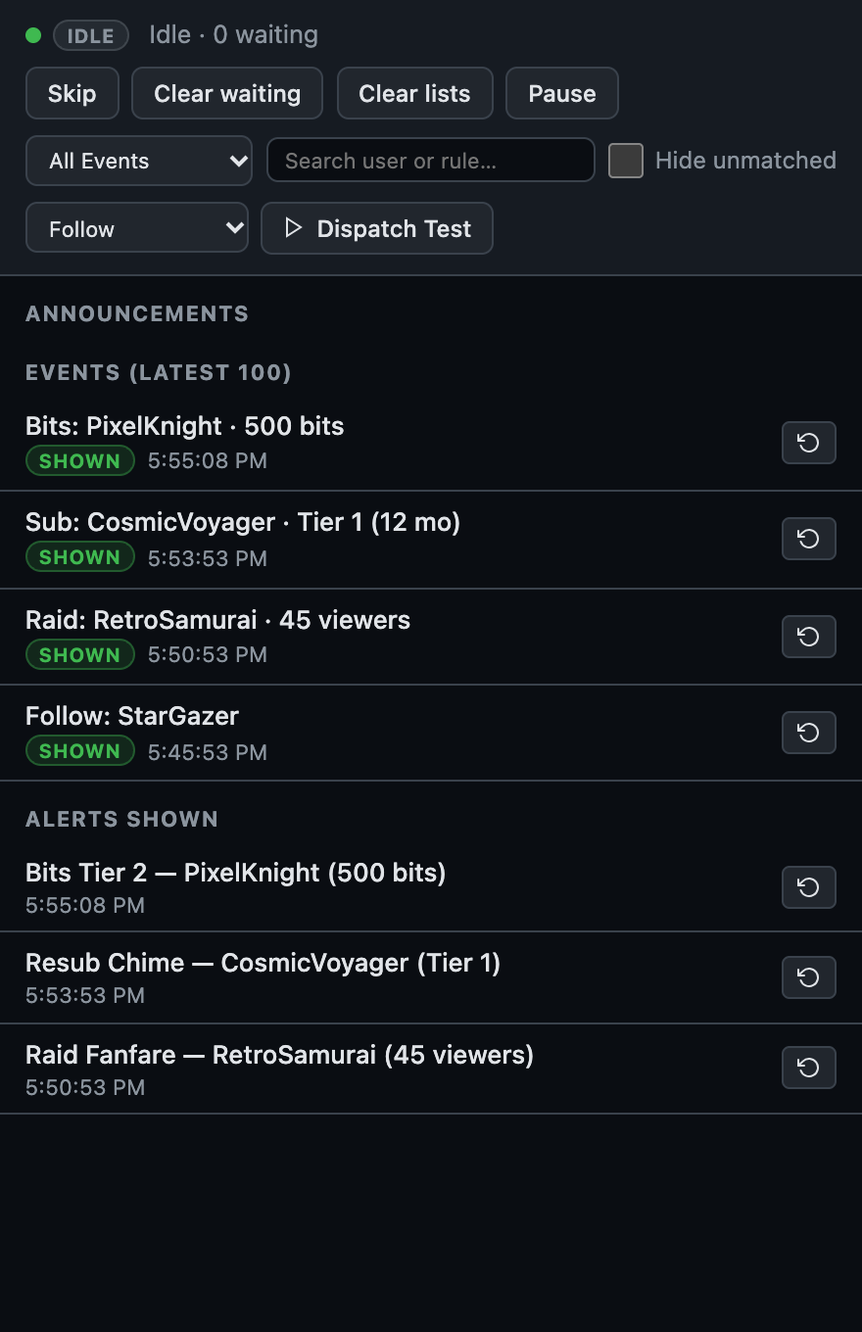
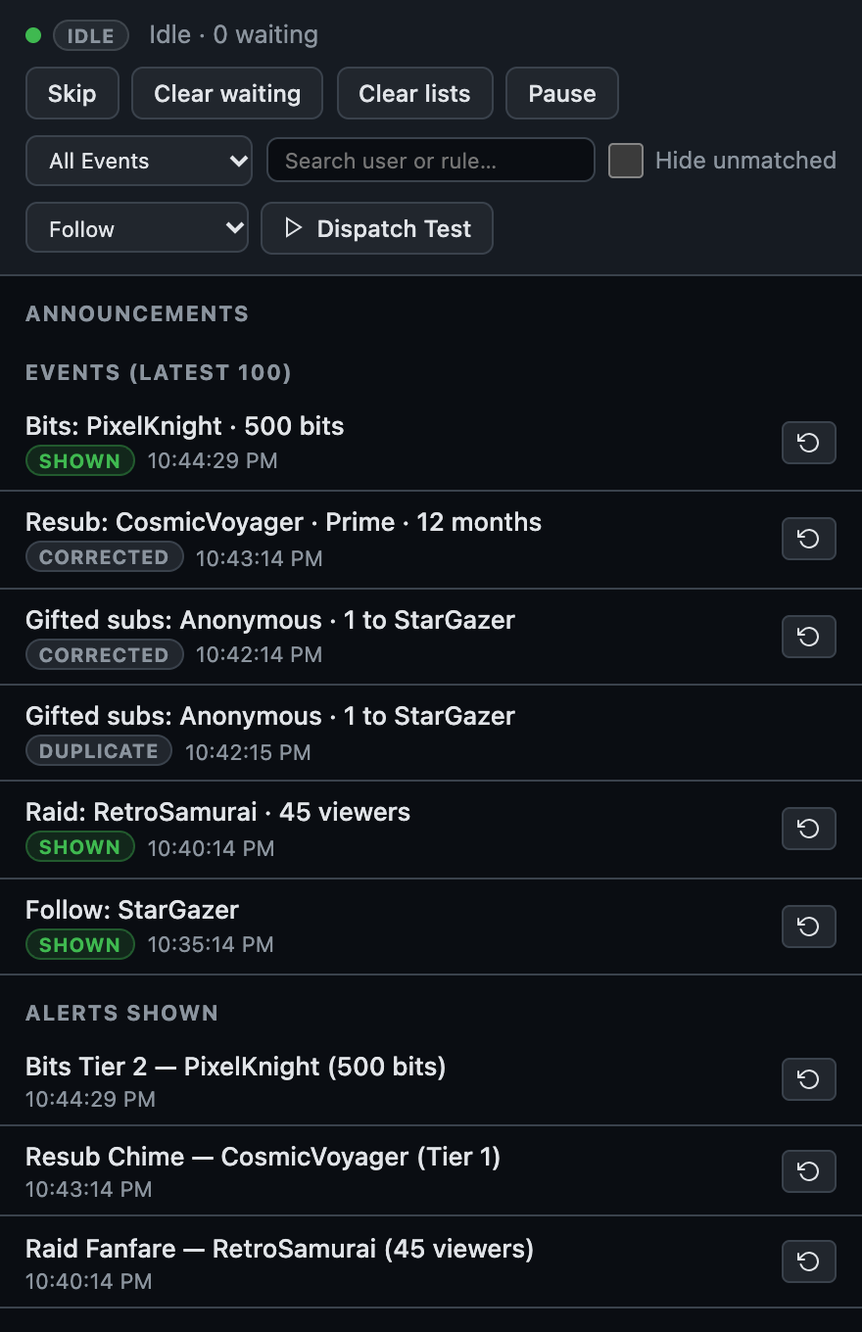
feat: add audited alert history corrections without replay
Preserve originals and back up the log before atomic repairs; show corrected Prime and gift details and block duplicate event replay.

diff --git a/public/docs.html b/public/docs.html
@@ -1401,6 +1401,11 @@
             <strong>Variants:</strong> add several and pick random (never the same twice in a row), weighted, or in order.<br><br>
             <strong>Placeholders</strong> in titles and messages: <code>{{alert.user}}</code> <code>{{alert.amount}}</code> <code>{{alert.count}}</code> <code>{{alert.months}}</code> <code>{{alert.streak}}</code> <code>{{alert.tier}}</code> <code>{{alert.message}}</code> <code>{{alert.reward}}</code> <code>{{alert.viewers}}</code> <code>{{alert.name}}</code> <code>{{alert.recipient}}</code> <code>{{alert.keyword}}</code>, plus poll tokens <code>{{winner}}</code> <code>{{poll_title}}</code> <code>{{votes}}</code> <code>{{percent}}</code> <code>{{total_votes}}</code>.<br><br>
             <strong>Queue:</strong> alerts play one at a time with a configurable gap. You can skip, clear, pause and resume from the Alerts page. The <a href="/alert-queue.html">Event queue</a> page lists the latest 100 real events (including ones that matched no rule) with a replay button, and fits as an OBS dock (View → Docks → Custom Browser Docks, <code>http://localhost:3000/alert-queue.html</code>). Simulations and Test buttons never run timer or HTTP actions. Rules have a priority (low to critical, with optional interrupt and expiry); <strong>Announcements</strong> are manual alerts fired from the Announcements tab or <code>/tools/announcements-dock.html</code> (<code>POST /api/alerts/trigger</code>). Alerts can also send a chat message or press a Companion button.<br><br>
+            <strong>Saved-event corrections:</strong> confirmed mistakes can be repaired through the administrative <code>POST /api/alerts/history/correct</code> endpoint; this is not a live Companion trigger. No alerts, sounds, actions, broadcasts, counts, goals, rules or queue/current/playback snapshots are changed.<br><br>
+            <strong>Safe procedure:</strong> (1) Read <code>GET /api/alerts</code>, locate the affected <code>queue.events</code> and existing matching rule. (2) Copy each complete original entry into <code>expected</code> and POST a preview with <code>dryRun:true</code>. (3) Inspect every proposed record, then send the same request with <code>dryRun:false</code>. Example body structure: <code>{reason:"Confirmed Prime announcement",dryRun:true,corrections:[{id:"event-id",expected:fullOriginalRecord,event:{tier:"prime",tierLabel:"Prime",months:12},title:"FictionalViewer resubscribed with Prime for 12 months!",ruleId:"prime-rule-id",duplicateOf:null}]}</code>; serialize as JSON and send <code>Content-Type: application/json</code>. Use actual IDs and the full original object from the GET response, not the example identifiers.<br><br>
+            <strong>Duplicates:</strong> correct the giver/recipient or subscription details first; set the extra entry's <code>duplicateOf</code> to the canonical ID (both may be in one batch). The corrected user/type must match; no self-reference, chains or cycles. Canonical records show <code>corrected</code>, extras show <code>duplicate</code>. Refresh Alerts or the OBS Event queue dock to see Prime/months/recipients. Duplicate Replay buttons are hidden and event replay is blocked; canonical replay is still a separate explicit live action.<br><br>
+            <strong>Audit and backup:</strong> the response is <code>{ok:true,dryRun,replayed:false,backup,events:[changed records]}</code>. Preview writes nothing and has <code>backup:null</code>. Apply first backs up the full previous log to <code>data/backups/alert-events-before-repair-&lt;UUID&gt;.json</code> under your configured data directory, then atomically replaces <code>alert-events.json</code>. The returned path is relative (<code>backups/...</code>); this JSON backup is not a ZIP in Backups UI. Originals remain in <code>revisions:[{at,reason,original}]</code>, excluding nested prior revisions. IDs/timestamps/types remain unchanged. No chat history or historical subscription/gift totals are rewritten.<br><br>
+            <strong>Validation:</strong> 1–50 unique IDs, reason nonblank/max 500 characters, at most ten revisions per event. Editable text fields (max 2000 each): <code>user,recipient,tier,tierLabel,message</code>; finite nonnegative numeric fields: <code>months,streak,count,amount</code>. Other event fields cannot change. Required literal <code>title</code> (max 2000), compatible existing <code>ruleId</code> (milestone also accepts resub), and <code>duplicateOf</code> (ID or null). <code>dryRun</code> is boolean, default false. Errors: 400 invalid request, 404 missing event, 405 non-POST, 409 stale full <code>expected</code> record, 500 backup/write failure. A failed batch does not replace the in-memory log. See the <a href="/api.html">in-app API reference</a> for the complete JSON example.<br><br>
             <strong>Not included yet:</strong> watch streaks and hype trains (they need Twitch EventSub), and OBS control actions.
         </div></div>
     </div>`;

diff --git a/server/services/alert-history.js b/server/services/alert-history.js
@@ -1,0 +1,78 @@
+'use strict';
+const fs = require('fs');
+const path = require('path');
+const { randomUUID } = require('crypto');
+const { isDeepStrictEqual } = require('util');
+
+const TEXT_FIELDS = new Set(['user', 'recipient', 'tier', 'tierLabel', 'message']);
+const NUMBER_FIELDS = new Set(['months', 'streak', 'count', 'amount']);
+const clone = value => JSON.parse(JSON.stringify(value));
+function fail(message, status = 400) {
+    throw Object.assign(new Error(message), { status });
+}
+
+function correctAlertHistory({ dataDir, events, rules, reason, corrections, dryRun = false }) {
+    if (typeof reason !== 'string' || !reason.trim() || reason.length > 500) fail('A correction reason is required (maximum 500 characters)');
+    if (!Array.isArray(corrections) || !corrections.length || corrections.length > 50) fail('Provide between 1 and 50 corrections');
+    if (typeof dryRun !== 'boolean') fail('dryRun must be a boolean');
+    const originals = new Map(events.map(entry => [entry.id, entry]));
+    const changed = new Map();
+    const at = new Date().toISOString();
+    for (const change of corrections) {
+        if (!change || typeof change !== 'object' || Array.isArray(change)) fail('Each correction must be an object');
+        const entry = originals.get(change.id);
+        if (!entry) fail('An event to correct was not found', 404);
+        if (changed.has(change.id)) fail('An event can only appear once per correction');
+        if (!isDeepStrictEqual(change.expected, clone(entry))) fail('Event changed; reload history before correcting it', 409);
+        if ((entry.revisions || []).length >= 10) fail('Event correction limit reached');
+        if (!change.event || typeof change.event !== 'object' || Array.isArray(change.event)) fail('event must contain corrected fields');
+        const event = { ...entry.event };
+        for (const [key, value] of Object.entries(change.event)) {
+            if (TEXT_FIELDS.has(key)) {
+                if (typeof value !== 'string' || value.length > 2000) fail(`Invalid corrected ${key}`);
+            } else if (NUMBER_FIELDS.has(key)) {
+                if (typeof value !== 'number' || !Number.isFinite(value) || value < 0) fail(`Invalid corrected ${key}`);
+            } else fail(`Cannot correct event field "${key}"`);
+            event[key] = value;
+        }
+        if (typeof change.title !== 'string' || change.title.length > 2000) fail('A corrected title is required (maximum 2000 characters)');
+        const rule = rules.find(item => item.id === change.ruleId);
+        if (!rule || (rule.trigger !== event.type && !(rule.trigger === 'milestone' && event.type === 'resub'))) fail('Corrected rule must exist and match the event type');
+        if (change.duplicateOf !== null && (typeof change.duplicateOf !== 'string' || !change.duplicateOf)) fail('duplicateOf must be an event ID or null');
+        const { revisions, ...original } = clone(entry);
+        changed.set(entry.id, {
+            ...entry, event, title: change.title, ruleId: rule.id, ruleName: rule.name,
+            status: change.duplicateOf ? 'duplicate' : 'corrected',
+            duplicateOf: change.duplicateOf,
+            revisions: [...(revisions || []), { at, reason: reason.trim(), original }]
+        });
+    }
+    const next = events.map(entry => changed.get(entry.id) || entry);
+    for (const entry of next) {
+        if (!entry.duplicateOf || (!changed.has(entry.id) && !changed.has(entry.duplicateOf))) continue;
+        const target = changed.get(entry.duplicateOf) || originals.get(entry.duplicateOf);
+        if (!target || target.id === entry.id || target.duplicateOf || target.status === 'duplicate'
+            || target.event.type !== entry.event.type
+            || String(target.event.user).toLowerCase() !== String(entry.event.user).toLowerCase()) {
+            fail('Duplicate must reference a different canonical event for the same viewer and type');
+        }
+    }
+    let backup = null;
+    if (!dryRun) {
+        const id = randomUUID();
+        backup = path.join('backups', `alert-events-before-repair-${id}.json`);
+        fs.mkdirSync(path.join(dataDir, 'backups'), { recursive: true });
+        fs.writeFileSync(path.join(dataDir, backup), JSON.stringify(events), { flag: 'wx' });
+        const file = path.join(dataDir, 'alert-events.json');
+        const temp = `${file}.${id}.tmp`;
+        try {
+            fs.writeFileSync(temp, JSON.stringify(next), { flag: 'wx' });
+            fs.renameSync(temp, file);
+        } finally {
+            fs.rmSync(temp, { force: true });
+        }
+    }
+    return { next, result: { ok: true, dryRun, replayed: false, backup, events: [...changed.values()] } };
+}
+
+module.exports = { correctAlertHistory };

diff --git a/public/api.html b/public/api.html
@@ -1189,10 +1189,16 @@
                     details: 'Simulates stream event via GET request (?type=bits&user=Viewer&amount=500).'
                 },
                 {
+                    method: 'POST', path: '/api/alerts/history/correct',
+                    desc: 'Preview or apply audited saved-event corrections without replay',
+                    details: 'Administrative POST-only operation; no query parameters or Companion GET trigger. First GET /api/alerts and copy each complete queue.events record into expected (including revisions), then preview with dryRun:true. Inspect the returned records before sending the same request with dryRun:false (default). reason is required, nonblank, max 500 characters; corrections contains 1–50 unique existing IDs. event is a required patch: user, recipient, tier, tierLabel, message are strings max 2000 characters; months, streak, count, amount are finite nonnegative numbers. Other event fields cannot be edited. title is a required literal string max 2000 characters. ruleId must exist and match the event type (milestone also accepts resub); ruleName comes from that rule, without executing it. duplicateOf is required: null for canonical, or another canonical ID with the same corrected user (case-insensitive) and event type; no self-reference, chains or cycles, and a referenced canonical cannot become a duplicate. IDs/times/types stay unchanged; max ten revisions per event. Returns {ok:true,dryRun,replayed:false,backup,events:[changed records]}. Preview writes nothing with backup:null. Apply backs up the full previous log to data/backups/alert-events-before-repair-<UUID>.json under the configured data directory (relative path returned; not a ZIP in Backups UI), then atomically replaces alert-events.json. Each record adds revisions:[{at,reason,original}] retaining the previous entry without recursive revisions; status becomes corrected or duplicate. No alert, queue/current/playback change, broadcast, action, count/goal/rule change, or chat rewrite. Refresh Studio/OBS queue dock to see Prime/months/recipients and status; duplicate Replay controls are hidden and event replay is rejected. Canonical replay remains an explicit separate operation. Errors {error}: 400 invalid JSON/fields/links/rule/revision limit, 404 missing event, 405 non-POST, 409 expected does not match the full current record, 500 persistence failure. All corrections validate before writes; failed persistence leaves memory unchanged.',
+                    body: '{ "reason": "Confirmed Prime announcement", "dryRun": true, "corrections": [{ "id": "event-id", "expected": { "id": "event-id", "at": "2026-01-01T12:00:00.000Z", "event": { "type": "resub", "user": "FictionalViewer", "tier": "1000", "months": 12 }, "status": "shown", "title": "FictionalViewer resubscribed!", "ruleId": "paid-rule-id", "ruleName": "Paid Subs" }, "event": { "tier": "prime", "tierLabel": "Prime", "months": 12 }, "title": "FictionalViewer resubscribed with Prime for 12 months!", "ruleId": "prime-rule-id", "duplicateOf": null }] }'
+                },
+                {
                     method: 'POST', path: '/api/alerts/replay',
                     desc: 'Replay the last N alerts or a specific past event/alert',
                     companion: true,
-                    details: 'Pass { "count": 3 } (default 1 when omitted) to replay the last N shown alerts in order, or pass eventId / alertId to replay a specific entry.',
+                    details: 'Pass { "count": 3 } (default 1 when omitted) to replay the last N shown alerts in order, or pass eventId / alertId to replay a specific entry. Duplicate-marked eventId entries cannot be replayed; use their canonical event. Count/alertId replay uses separate original playback history, not corrected event records.',
                     body: '{ "count": 1 }'
                 },
                 {

diff --git a/public/tools/alert-queue.html b/public/tools/alert-queue.html
@@ -206,7 +206,7 @@ g.addEventListener('click',ev=>{const b=ev.target.closest('button[data-id]');if(
             if (hideUnmatched && e.status === 'no matching rule') return false;
             if (!matchesTypeFilter(e.event?.type, e.test || e.status === 'test')) return false;
             if (searchQuery) {
-                const combined = `${e.event?.user || ''} ${e.event?.name || ''} ${e.event?.command || ''} ${e.event?.type || ''} ${e.status || ''}`;
+                const combined = `${e.event?.user || ''} ${e.event?.name || ''} ${e.event?.command || ''} ${e.event?.type || ''} ${e.event?.recipient || ''} ${e.event?.tierLabel || ''} ${e.event?.months || ''} ${e.status || ''}`;
                 if (!matchesSearch(combined)) return false;
             }
             return true;
@@ -223,10 +223,10 @@ g.addEventListener('click',ev=>{const b=ev.target.closest('button[data-id]');if(
 
             return `<div>
                 <span class="grow">
-                    <span class="event-title">${esc(TYPES[e.event.type] || e.event.type)}: ${esc(e.event.user || e.event.name || '')}${e.event.command ? ' (!' + esc(e.event.command) + ')' : ''}${e.event.amount ? ' · ' + esc(e.event.amount) : ''}</span>
+                    <span class="event-title">${esc(TYPES[e.event.type] || e.event.type)}: ${esc(e.event.user || e.event.name || '')}${e.event.command ? ' (!' + esc(e.event.command) + ')' : ''}${e.event.amount ? ' · ' + esc(e.event.amount) : ''}${e.event.recipient ? ' to ' + esc(e.event.recipient) : ''}${e.event.tierLabel ? ' · ' + esc(e.event.tierLabel) : ''}${e.event.months ? ' · ' + esc(e.event.months) + ' months' : ''}</span>
                     <span class="sub">${statusBadge}<span>${new Date(e.at).toLocaleTimeString()}</span></span>
                 </span>
-                <button class="rp" data-event="${esc(e.id)}" title="Run through current rules again">${REPLAY_ICON}</button>
+                ${e.status === 'duplicate' || e.duplicateOf ? '' : `<button class="rp" data-event="${esc(e.id)}" title="Run through current rules again">${REPLAY_ICON}</button>`}
             </div>`;
         }).join('') : `<div class="empty">${hideUnmatched && rawEvents.length ? 'All events filtered or hidden. Adjust your filters to view them.' : 'No events matching current filter.'}</div>`;
         if (eventsHtml !== _lastEventsHtml) {

diff --git a/server/services/alerts.js b/server/services/alerts.js
@@ -5,6 +5,7 @@
 const fs = require('fs');
 const path = require('path');
 const { createStateMachine } = require('./state-machine');
+const { correctAlertHistory } = require('./alert-history');
 
 const TRIGGERS = {
     follow: 'Follow',
@@ -1017,6 +1018,7 @@ function createAlertEngine({ dataDir, broadcast, broadcastToOverlays, runTimerAc
     function replayEvent(eventId) {
         const entry = events.find(item => item.id === eventId);
         if (!entry) throw new Error('Event not found');
+        if (entry.status === 'duplicate' || entry.duplicateOf) throw new Error('Duplicate events cannot be replayed; use the canonical event');
         const payload = handleEvent({ ...entry.event }, { test: true });
         if (!payload) throw new Error('No enabled rule matches that event right now');
         return payload;
@@ -1189,6 +1191,15 @@ function createAlertEngine({ dataDir, broadcast, broadcastToOverlays, runTimerAc
             machine: alertMachine.toSnapshot()
         }),
         getStateMachine: () => alertMachine,
+        correctEvents: request => {
+            const { next, result } = correctAlertHistory({ ...request, dataDir, events, rules: config.rules });
+            if (!result.dryRun) {
+                clearTimeout(saveEventsTimer);
+                saveEventsTimer = null;
+                events = next;
+            }
+            return result;
+        },
         replayEvent, replayAlert, replayLast,
         handleEvent, fireRule, trigger, noteGift, pressCompanion, control, setMuted, stop,
         alertAssetUsers, rewriteAlertReferences

diff --git a/public/js/alerts/alerts-panels.js b/public/js/alerts/alerts-panels.js
@@ -29,13 +29,13 @@ export function renderEvents() {
             <span class="grow">
                 <span class="al-s51">
                     <span style="color:${meta.color}">${meta.icon}</span>
-                    <b>${esc(TRIGGERS[e.event.type] || e.event.type)}</b>: ${esc(e.event.user || e.event.name || 'Anonymous')}${e.event.amount ? ` · <b>${esc(e.event.amount)}</b>` : ''}
+                    <b>${esc(TRIGGERS[e.event.type] || e.event.type)}</b>: ${esc(e.event.user || e.event.name || 'Anonymous')}${e.event.amount ? ` · <b>${esc(e.event.amount)}</b>` : ''}${e.event.recipient ? ` to ${esc(e.event.recipient)}` : ''}${e.event.tierLabel ? ` · ${esc(e.event.tierLabel)}` : ''}${e.event.months ? ` · ${esc(e.event.months)} months` : ''}
                 </span>
                 <span class="st ${e.status === 'shown' ? 'shown' : ''}">${esc(e.status)} · ${new Date(e.at).toLocaleTimeString()}</span>
             </span>
-            <button type="button" class="btn sm" data-replay-event="${esc(e.id)}" title="Run this event through your current rules again">
+            ${e.status === 'duplicate' || e.duplicateOf ? '' : `<button type="button" class="btn sm" data-replay-event="${esc(e.id)}" title="Run this event through your current rules again">
                 ${ICONS.refresh} Replay
-            </button>
+            </button>`}
         </div>`;
     }).join('') : '<p class="al-s52 hint">Real stream events appear here as they occur in real time.</p>';
 

diff --git a/server/routes/overlays.js b/server/routes/overlays.js
@@ -335,6 +335,20 @@ function createOverlayRoutes({
             return true;
         }
 
+        if (pathname === '/api/alerts/history/correct') {
+            if (req.method !== 'POST') {
+                sendJson(res, { error: 'History correction requires POST' }, 405);
+                return true;
+            }
+            try {
+                const body = JSON.parse(await readRequestBody(req) || '{}');
+                sendJson(res, alertEngine.correctEvents(body));
+            } catch (err) {
+                sendError(res, err, err.status || (err instanceof SyntaxError ? 400 : 500));
+            }
+            return true;
+        }
+
         if (pathname === '/api/alerts/replay' && (req.method === 'POST' || req.method === 'GET')) {
             try {
                 const body = await parseJsonOrQuery(req, url);

diff --git a/docs/api-reference.md b/docs/api-reference.md
@@ -865,6 +865,77 @@ Deletes a custom user preset pack.
 
 History is not rewritten by ingestion fixes. Exact-alert replay reproduces the original recorded content; event replay re-evaluates the recorded event, not a newly fetched Twitch event.
 
+### Correct Saved Alert History
+
+**`POST /api/alerts/history/correct`**, JSON body; no query parameters or GET equivalent. This is administrative history maintenance, not a Companion live trigger. It does not enqueue, replay, broadcast or execute actions, and does not change subscription/gift totals, goals, rules, live queue/current state or the volatile playback history.
+
+| Body field | Meaning |
+|---|---|
+| `reason` | Required nonblank string, maximum 500 characters; saved in the audit. |
+| `dryRun` | Boolean, defaults to `false`. Use `true` to preview without any writes. |
+| `corrections` | Required array of 1–50 corrections, with unique event IDs. |
+| `corrections[].id` | Existing ID from `GET /api/alerts` → `queue.events`. |
+| `corrections[].expected` | Complete current record from that response, including revisions. Must deep-equal the current saved record or the whole batch fails with 409. |
+| `corrections[].event` | Required patch object. Only `user`, `recipient`, `tier`, `tierLabel`, `message` (strings, maximum 2000 characters each), and `months`, `streak`, `count`, `amount` (finite nonnegative numbers) are allowed. Other fields remain unchanged; type cannot change. |
+| `corrections[].title` | Required literal corrected history title, string, maximum 2000 characters; no template evaluation. |
+| `corrections[].ruleId` | Required existing rule matching the event type; a milestone rule is also accepted for a resub. `ruleName` is copied from that rule. Rules are not executed or edited. |
+| `corrections[].duplicateOf` | Required `null` for a canonical corrected event, or another existing canonical event ID for a duplicate. Both records must have the same event type and case-insensitive corrected user. No self-reference, chains or cycles; a canonical event already referenced by duplicates cannot become a duplicate. |
+
+IDs, original timestamps and event types are immutable. At most ten audit revisions are permitted per event. All entries are validated before writing. A successful response is:
+
+```json
+{
+  "ok": true,
+  "dryRun": false,
+  "replayed": false,
+  "backup": "backups/alert-events-before-repair-<UUID>.json",
+  "events": [{
+    "id": "event-id",
+    "at": "2026-01-01T12:00:00.000Z",
+    "event": {"type":"resub","user":"FictionalViewer","tier":"prime","tierLabel":"Prime","months":12},
+    "status": "corrected",
+    "title": "FictionalViewer resubscribed with Prime for 12 months!",
+    "ruleId": "prime-rule-id",
+    "ruleName": "Prime Subs",
+    "duplicateOf": null,
+    "revisions": [{"at":"2026-01-01T12:30:00.000Z","reason":"Confirmed Prime announcement","original":{"id":"event-id","at":"2026-01-01T12:00:00.000Z","event":{"type":"resub","user":"FictionalViewer","tier":"1000","months":12},"status":"shown","title":"FictionalViewer resubscribed!","ruleId":"paid-rule-id","ruleName":"Paid Subs"}}]
+  }]
+}
+```
+
+For `dryRun:true`, `backup` is `null`, with the same proposed records/audit shape; nothing is persisted. An apply creates a unique JSON backup of the full previous in-memory log under the configured data directory before atomic replacement of `alert-events.json`. Audit entries preserve each previous full record except its already-retained `revisions`, avoiding recursive nesting. Failed persistence leaves the engine's event list unchanged; the backup can remain available if replacement fails.
+
+HTTP errors return `{error:"..."}`: **400** malformed JSON/invalid fields, incompatible rule or duplicate links, or revision limit; **404** correction event not found; **405** non-POST method; **409** stale `expected`; **500** backup/write failure. Refresh and re-preview after resolving any conflict.
+
+After applying, refresh Alerts/queue dock (no live broadcast is sent). Corrected records have `status:"corrected"`; duplicates have `status:"duplicate"` and the canonical ID in `duplicateOf`. Duplicate event replay is rejected and its Replay button is hidden in both views. Explicit canonical replay still re-evaluates current rules; exact-alert/count replay uses the separate unchanged playback history, not corrected records. No new Companion action or variable is exposed.
+
+**Preview/apply example:** in the StreamPulse browser console, substitute an actual saved event ID and matching rule name from the initial GET. The identity below is fictional.
+
+```js
+const snapshot = await (await fetch('/api/alerts')).json();
+const original = snapshot.queue.events.find(e => e.id === 'event-id');
+const primeRule = snapshot.rules.find(r => r.name === 'Prime Subs');
+const repair = {
+    reason: 'Confirmed Prime announcement; paid tier was recorded incorrectly',
+    dryRun: true,
+    corrections: [{
+        id: original.id,
+        expected: original,
+        event: { tier: 'prime', tierLabel: 'Prime', months: 12 },
+        title: 'FictionalViewer resubscribed with Prime for 12 months!',
+        ruleId: primeRule.id,
+        duplicateOf: null
+    }]
+};
+const preview = await (await fetch('/api/alerts/history/correct', {
+    method: 'POST', headers: { 'Content-Type': 'application/json' },
+    body: JSON.stringify(repair)
+})).json();
+console.log(preview);
+```
+
+Inspect every returned record. Only after approval, repeat the POST with `repair.dryRun = false`, retaining the same originals in `expected`. Refresh Studio or the OBS queue dock afterward. Keep repair requests separate from live Companion replay buttons; a history correction never requires replay.
+
 ---
 
 ## 10. WebSocket Live Push Protocol

diff --git a/docs/alerts-guide.md b/docs/alerts-guide.md
@@ -26,6 +26,14 @@ When Twitch EventSub is connected **and** `channel.subscription.gift` is registe
 
 No extra polling, settings or Companion changes are required. The existing alert queue, replay, mute and test endpoints are unchanged. Replaying a historical alert preserves its recorded content; this fix does not rewrite old alerts or historical gift totals.
 
+### Correcting Saved Alert History
+
+Confirmed historical mistakes can be corrected without putting another alert on stream. Administrative maintenance supports a preview, original-record audit, backup and duplicate markers. It changes saved event metadata only, not subscription/gift totals, goals, rules, the live queue or previous playback payloads.
+
+The Alerts page and OBS queue dock display Prime, months, gift recipients and corrected/duplicate statuses. Duplicates have no Replay button and cannot be replayed as events. Canonical event replay remains a separate explicit live action, never part of a history correction.
+
+The safe preview/apply procedure and full request reference are in the installed app's **Docs → Alerts** and **API Reference**. Refresh the Studio or OBS dock after maintenance to load the updated saved records. This is intentionally not a live Companion button.
+
 ### Testing Channel Point Rewards
 
 `{{alert.reward}}` is the title of the reward actually redeemed, not a list of every checked reward. The rule's reward checkboxes control which redemptions match.

diff --git a/docs/changelog.md b/docs/changelog.md
@@ -11,6 +11,7 @@ All notable changes to StreamPulse are documented in this file. The format is ba
 ## [Unreleased]
 
 ### Added
+- **Alert History**: Audited, backed-up corrections and duplicate markers without replaying alerts.
 - **Display Library**: Reusable inventories, ordered tables and member badges/strips, with shared designs, independent live sources, source diagnostics and dependency-aware deletion.
 - **Linked Variable Sets**: Ordered entry links, readable linked placeholders, guarded live edits, dependency-aware deletion and per-owner item trackers with upgrade labels and images.
 - **Temporal Variables**: Standalone Date, Time, Date & Time, and Duration values with inline editing, inspector controls and type filters.
